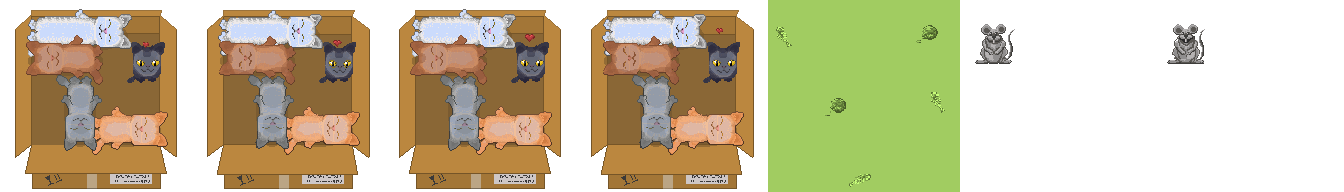
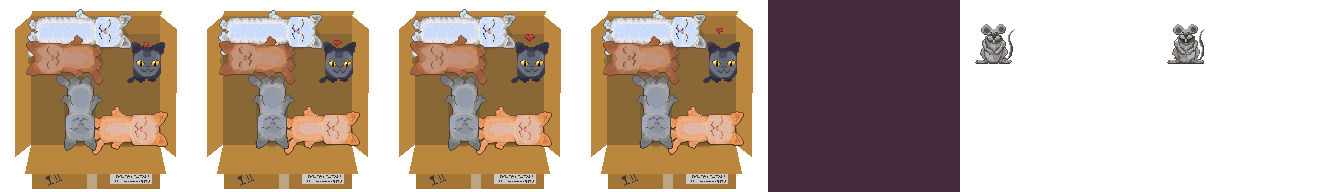
final 1)

diff --git a/index.html b/index.html
@@ -57,6 +57,9 @@
     let sfxMeow, sfxPurr, sfxGiggle;
 
     function create() {
+        this.load.on('loaderror', function (file) {
+            console.error('Помилка завантаження файлу: ' + file.src);
+        });
         // 1. Фон та ФОНОВА МУЗИКА
         const bgMusic = this.sound.add('bg_music', { volume: 0.4, loop: true });
         
@@ -65,7 +68,9 @@
         sfxPurr = this.sound.add('purr', { volume: 0.7 });
         sfxGiggle = this.sound.add('mouse_giggle', { volume: 0.6 });
 
-        this.add.tileSprite(225, 400, 460, 800, 'world', 'BackAndCactusForAdd 4.ase');
+        let bg = this.add.sprite(this.cameras.main.centerX, this.cameras.main.centerY, 'world', 'BackAndCactusForAdd 4.ase');
+        bg.setDisplaySize(this.cameras.main.width, this.cameras.main.height);
+        bg.postFX.addVignette(0.5, 0.4, 0.8, 0.7);
 
         // 2. Коробка
         this.anims.create({
